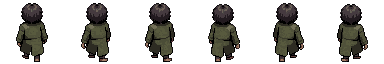
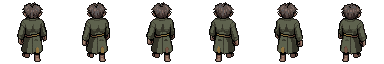
v6.9: Uslu'nun kiyafeti donem diline cekildi, kral kuculdu, Elvi geri alindi
MODERN KIYAFET: "NO modern clothing" yazmak yetmiyor - tarifteki kelime
belirleyici. "city coat" deyince model yakali, dugmeli MODERN palto cizdi.
Uslu artik dizalti kaba yun tunik, ip kusak, bacaklarda sargi, yalin ayak.
ORTAK'a "rough hand-woven pre-industrial clothing" ve yaka/dugme/fermuar
yasaklari eklendi.

KRAL: olcek .75 -> .58. Olculdu: .75'te oturan kral ayakta duran oyuncunun
1.40 kati yuksekligindeydi; .58'de 1.08 kati.

ELVI: kullanici "fazla ugrasma, onceki haline getir" dedi - orijinal
karakterden yeniden kuruldu (API'deki karakter indirildi, uretim harcanmadi).

SIRT CANTASI - KONTROLLU DENEY: "NO backpack" ve hatta "sirti tamamen bos"
yazmak ise yaramiyordu. Tarifi yalin govde + duz tunige indirince sirt
TERTEMIZ geldi. Demek ki cantayi GEZGIN cagristiran ayrintilar getiriyor:
boyna dolanmis atki (arkadan bohca gibi okunuyor), "cloth WRAPPED around the
shins", "hand-me-down/frayed", "worn boots", "HUNCHED shoulders". Bulgu
scripts/yeni_karakter_uret.py icine yazildi.

diff --git a/lib/game/world.ts b/lib/game/world.ts
@@ -65,7 +65,7 @@ export function makeWorld(zone:Zone,flags?:Record<string,string|boolean|undefine
      bati koseligine alindi (13 adim, Mirna'nin hemen yaninda): gorulen ama
      kimsenin ugramadigi bir kose. Kendi mekani yapilinca oraya tasinacak. */
   if(flags?.kral==='oldu')at({id:'kralCeset',type:'ceset',x:5,y:17,name:'Kral',asset:'kral_ceset'});
-  else at({id:'kral',type:'npc',x:5,y:17,name:'Kral',portrait:13,sabit:true,capa:KRAL_CAPA,s:.75});
+  else at({id:'kral',type:'npc',x:5,y:17,name:'Kral',portrait:13,sabit:true,capa:KRAL_CAPA,s:.58});
   at({id:'uslu',type:'npc',x:14,y:19,name:'Uslu',portrait:14});
   if(flags?.ayaz==='indi')at({id:'ayaz',type:'npc',x:16,y:21,name:'Tiga',portrait:8,s:.9});
   if(flags?.tuhn==='kaldi')at({id:'tuhn',type:'npc',x:19,y:22,name:'Tuhn',portrait:6});

diff --git a/lib/game/data.ts b/lib/game/data.ts
@@ -1,6 +1,6 @@
 /** Oyun surumu. Her yayina cikan degisiklikte 0.1 artar: 0.1, 0.2 ... 0.9,
  *  sonra 1.0, 1.1 diye devam eder. Ekranin sol altinda gorunur. */
-export const SURUM='6.8';
+export const SURUM='6.9';
 /** Gelisim asamasi. Oyun oynanabilir ama icerik ve sistemler (item seti, dil
  *  secenegi, masaustu arayuzu) hala eksik - yani alfa. Beta'ya gecisi bu sabit
  *  tasir; surum numarasiyla ayri tutuldu ki 1.x sayimi bozulmasin. */

diff --git a/scripts/yeni_karakter_uret.py b/scripts/yeni_karakter_uret.py
@@ -15,9 +15,15 @@ ROOT = os.path.dirname(os.path.dirname(os.path.abspath(__file__)))
 # Sahneye oturtmak ton uyumunun isi, uretimin degil: aktor_uyum doygunlugu
 # yalnizca %10-22 kirpiyor, yani kaynak RENKLI gelmeli. Her karakterin
 # kiyafet renkleri tek tek yazilir; kul/is/gri kelimeleri tarife GIRMEZ.
+# MODERN KIYAFET: "NO modern clothing" yazmak yetmiyor, tarifteki kelime
+# belirleyici - "city coat" deyince model yakali dugmeli bir palto cizdi.
+# Giysiler donem dili ile adlandirilmali: tunik, cuppe, dokuma sal, sargi.
 ORTAK = ('single dark outline, basic shading, no background, human, '
+         'rough hand-woven pre-industrial clothing, '
          'NO backpack, NO bag, NO satchel, NO bedroll, NO pouches, '
-         'NO straps or belts across the chest, NO modern clothing')
+         'NO straps or belts across the chest, '
+         'NO modern clothing, NO lapels, NO collars with buttons, NO zippers, '
+         'NO jeans, NO sneakers, NO suit jacket')
 # Kafa orani: ilk turda Lin ve Uslu'nun kafasi govdeye gore cok buyuk cikti
 # (kullanici: "anime kizi gibi"). Mannequin sablonu kucuk figurlerde kafayi
 # buyutuyor; oran acikca yazilmali.
@@ -35,30 +41,38 @@ KISI = {
              'in a tight messy braid, a smudge of dirt on one cheek, holding a short charred '
              'stick like a tally marker, stubborn set jaw, standing very straight'
              + ORAN + ', ' + ORTAK, 161),
-    'ayaz': ('a thin fourteen year old boy, too-large hand-me-down coat with frayed '
-             'cuffs hanging past his hands, cloth wrapped around his shins, tousled '
-             'hair, hollow tired eyes, a dented metal canteen hanging from his belt, '
-             'shoulders hunched from waiting, ' + ORTAK, 43),
-    # Uslu: kulun icinden donen deli. Herkes cok ciddi; o degil. Dolasir,
-    # o yuzden yurume sablonu da gerekiyor (2 + 3 = 5 uretim).
-    # 2. tur: ilki "orman kackini" gibi cikti (kulaginda kuru bitki, kabarik sac
-    # kutlesi kafayi buyutuyordu). Bu sefer SIGINAK delisi: sac dagnik ama yatik,
-    # kiyafet sokak kiyafeti, bitki yok.
-    # 3. tur: iki kolu iki yana acik duruş karikaturlestiriyordu. Artik sakin
-    # duruyor, tek eli yaninda kucuk bir SELAM veriyor; tuhafligi durusunda
-    # degil yuzunde kalsin.
-    'uslu4': ('a scrawny man in his forties, gaunt narrow face with sunken cheeks and '
+    # 3. tur. KONTROLLU DENEY (seed 251): tarifi yalin govde + duz tunige
+    # indirince sirt TERTEMIZ geldi. Yani cantayi "NO backpack" demeyi unutmak
+    # degil, GEZGIN cagristiran ayrintilar getiriyor: boyna dolanmis ATKI
+    # (arkadan bohca gibi okunuyor), "cloth WRAPPED around the shins",
+    # "hand-me-down / frayed", "worn boots" ve "HUNCHED shoulders" (yuk
+    # tasiyormus gibi). Bunlar cikarildi, karakterin kimligi baska yollarla
+    # verildi: fazla buyuk tunik, bos eller, dimdik durus.
+    'ayaz4': ('a thin fourteen year old boy standing straight in a too-large DARK TEAL BLUE '
+              'linen tunic whose sleeves hang past his hands, plain RUST BROWN trousers, '
+              'barefoot, short tousled dark hair, hollow tired eyes, empty hands hanging at '
+              'his sides' + ORAN + ', ' + ORTAK, 261),
+    # Elvi'nin ilk tarifi "battaniye katmanlarina SARINMIS" diyordu - cantayi
+    # dogrudan o cagiriyordu. Katmanlar gitti, yerine tek parca uzun cuppe.
+    'selvi4': ('a hard-faced woman in her late thirties standing straight in a long heavy '
+               'DEEP PLUM PURPLE wool robe over a MOSS GREEN under-dress, a high closed '
+               'collar, weathered wind-burned face, cracked lips, arms folded across her '
+               'chest, unmoving' + ORAN + ', ' + ORTAK, 271),
+    'uslu5': ('a scrawny man in his forties, gaunt narrow face with sunken cheeks and '
               'restless wide eyes, a crooked half-smile, unkempt greasy dark hair in flat '
-              'tangled strands close to the skull, wearing a worn OLIVE GREEN long city coat '
-              'over a faded MUSTARD YELLOW shirt and dark brown trousers, bare feet, standing '
-              'calmly upright with one hand raised beside his shoulder in a small friendly '
-              'greeting wave and the other arm hanging loose at his side; NO leaves, NO '
-              'plants, NO twigs, NOT a forest hermit, NOT a druid, arms are NOT flung out wide'
-              + ORAN + ', ' + ORTAK, 203),
-    'selvi': ('a hard-faced woman in her late thirties, wrapped in many mismatched '
-              'layers of cloth and blankets against cold, a scarf covering her neck, '
-              'weathered wind-burned face, cracked lips, arms folded tight, standing '
-              'guard-like and unmoving, one muted rust-red rag among the grey, ' + ORTAK, 47),
+              'tangled strands close to the skull, wearing a long patched coarse wool tunic '
+              'in faded OLIVE GREEN that reaches below the knees, tied at the waist with a '
+              'frayed rope belt, a MUSTARD YELLOW undershirt showing at the collar, one '
+              'sleeve torn away, strips of cloth wrapped around his shins, bare feet, '
+              'standing calmly upright with one hand raised beside his shoulder in a small '
+              'friendly greeting wave and the other arm hanging loose; NO leaves, NO plants, '
+              'NO twigs, NOT a forest hermit, NOT a druid, arms are NOT flung out wide'
+              + ORAN + ', ' + ORTAK, 233),
+    'selvi2': ('a hard-faced woman in her late thirties, wearing a heavy DEEP PLUM PURPLE '
+               'wool coat over a MOSS GREEN dress, a thick cream-coloured scarf wrapped '
+               'around her neck, weathered wind-burned face, cracked lips, arms folded tight '
+               'across her chest, standing guard-like and unmoving, her back is completely '
+               'EMPTY and she carries nothing on it' + ORAN + ', ' + ORTAK, 221),
 }
 
 
